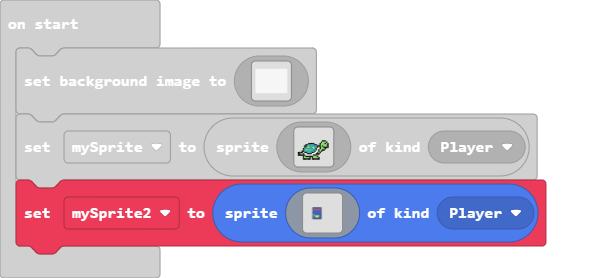
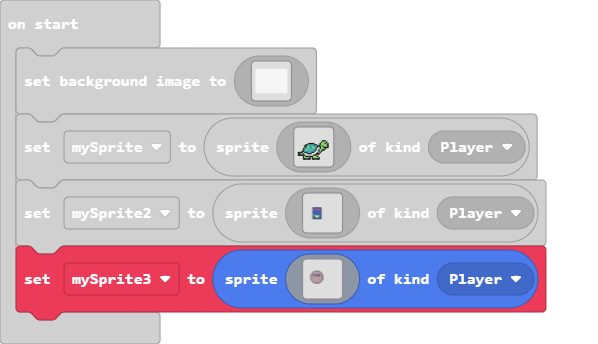
Update main.blocks, main.ts

Changed region(s): [[0.0, 0.0576, 0.9331, 0.9496], [0.3311, 0.4604, 0.3612, 0.4892], [0.0602, 0.3453, 0.0903, 0.3741]]

diff --git a/main.ts b/main.ts
@@ -224,3 +224,85 @@ let mySprite2 = sprites.create(img`
     ................................................................................
     ................................................................................
     `, SpriteKind.Player)
+let mySprite3 = sprites.create(img`
+    ................................................................................
+    ................................................................................
+    ................................................................................
+    ................................................................................
+    ................................................................................
+    ................................................................................
+    ................................................................................
+    ................................................................................
+    ................................................................................
+    ................................................................................
+    ................................................................................
+    ................................................................................
+    ................................................................................
+    ................................................................................
+    ................................................................................
+    ................................................................................
+    ................................................................................
+    ................................................................................
+    ................................................................................
+    ................................................................................
+    ....................fffffffffff.................................................
+    ..................ffbbbbbbbbbbbff...............................................
+    ................ffbbbbbbbbbbbbbbbff.............................................
+    ...............fbbbbbbbbbbbbbbbbbbbf............................................
+    ..............fbbbbbbbbbbbbbbbbbbbbbf...........................................
+    .............fbbbbbbbbbbbbbbbbbbbbbbbf..........................................
+    ............fbbbbbbbbbbbbbbbbbbbbbbbbbf.........................................
+    ............fbbbbbbbbbbbbbbbbbbbbbbbbbf.........................................
+    ...........fbbbfffffbfbbfbfbbfbfffbbbbbf........................................
+    ...........fbbbbbfbbbfbbfbffbfbfbfbbbbbf........................................
+    ..........fbbbbbbfbbbfbbfbfbffbfffbbbbbbf.......................................
+    ..........fbbbbbbfbbbfbbfbfbbfbfbfbbbbbbf.......................................
+    ..........fbbbbbbfbbbfbbfbfbbfbfbfbbbbbbf.......................................
+    ..........fbbbbbbfbbbbffbbfbbfbfbfbbbbbbf.......................................
+    ..........fbbbbbbbbbbbbbbbbbbbbbbbbbbbbbf.......................................
+    ..........fbbbbbbbbbbbbbbbbbbbbbbbbbbbbbf.......................................
+    ..........fbbbbbbbbbbbbbbbbbbbbbbbbbbbbbf.......................................
+    ..........fbbbbbbbbbbbbbbbbbbbbbbbbbbbbbf.......................................
+    ..........fbbbbbbbbbbbbbbbbbbbbbbbbbbbbbf.......................................
+    ..........fbbbbbbbbbbbbbbbbbbbbbbbbbbbbbf.......................................
+    ..........fbbbbbbbbb4bbb444bbbbbbbbbbbbbf.......................................
+    ...........fbbbbbbbb44b444f4bbbbbbbbbbbf........................................
+    ...........fbbbbbbbb44444444bbbbbbbbbbbf........................................
+    ............fbbbbbbb44bb444bbbbbbbbbbbf.........................................
+    ............fbbbbbbb4bbbbbbbbbbbbbbbbbf.........................................
+    .............fbbbbbbbbbbbbbbbbbbbbbbbf..........................................
+    ..............fbbbbbbbbbbbbbbbbbbbbbf...........................................
+    ...............fbbbbbbbbbbbbbbbbbbbf............................................
+    ................ffbbbbbbbbbbbbbbbff.............................................
+    ..................ffbbbbbbbbbbbff...............................................
+    ....................fffffffffff.................................................
+    ................................................................................
+    ................................................................................
+    ................................................................................
+    ................................................................................
+    ................................................................................
+    ................................................................................
+    ................................................................................
+    ................................................................................
+    ................................................................................
+    ................................................................................
+    ................................................................................
+    ................................................................................
+    ................................................................................
+    ................................................................................
+    ................................................................................
+    ................................................................................
+    ................................................................................
+    ................................................................................
+    ................................................................................
+    ................................................................................
+    ................................................................................
+    ................................................................................
+    ................................................................................
+    ................................................................................
+    ................................................................................
+    ................................................................................
+    ................................................................................
+    ................................................................................
+    ................................................................................
+    `, SpriteKind.Player)
